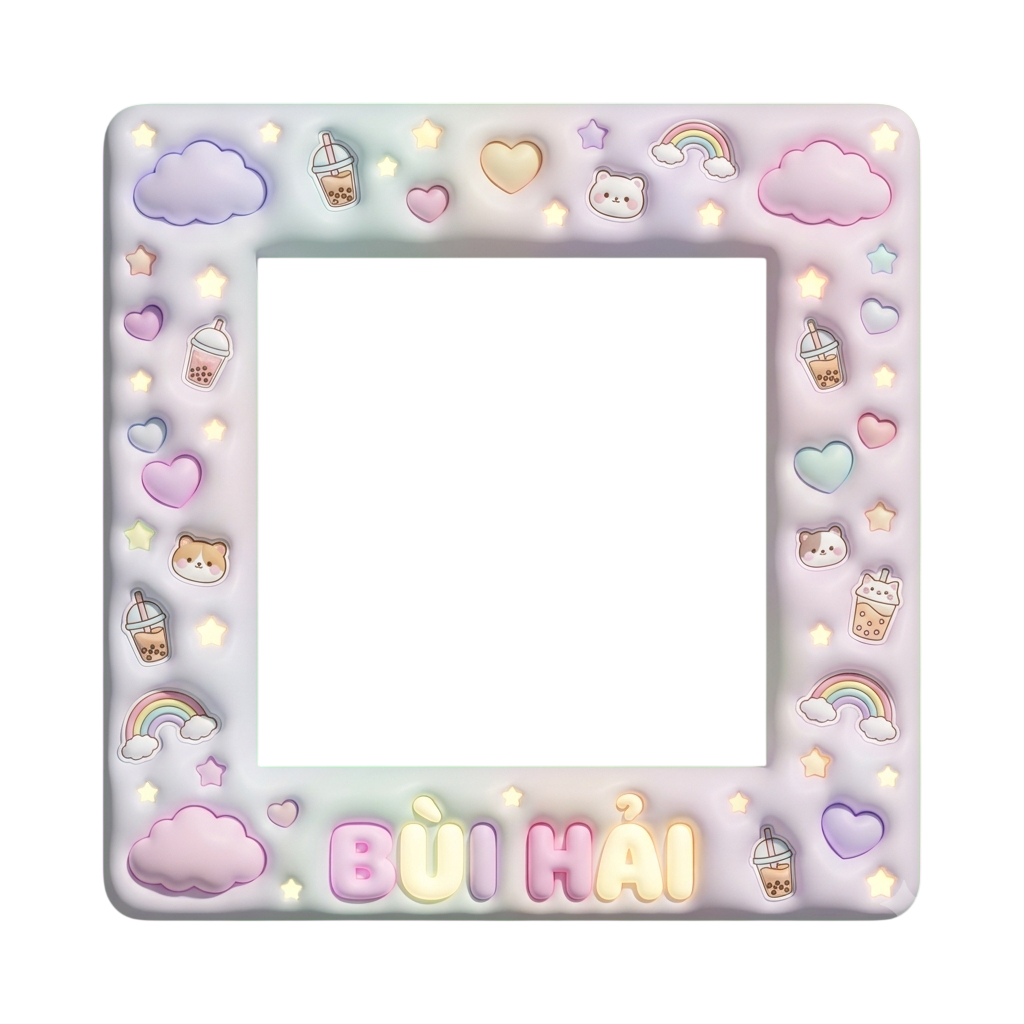
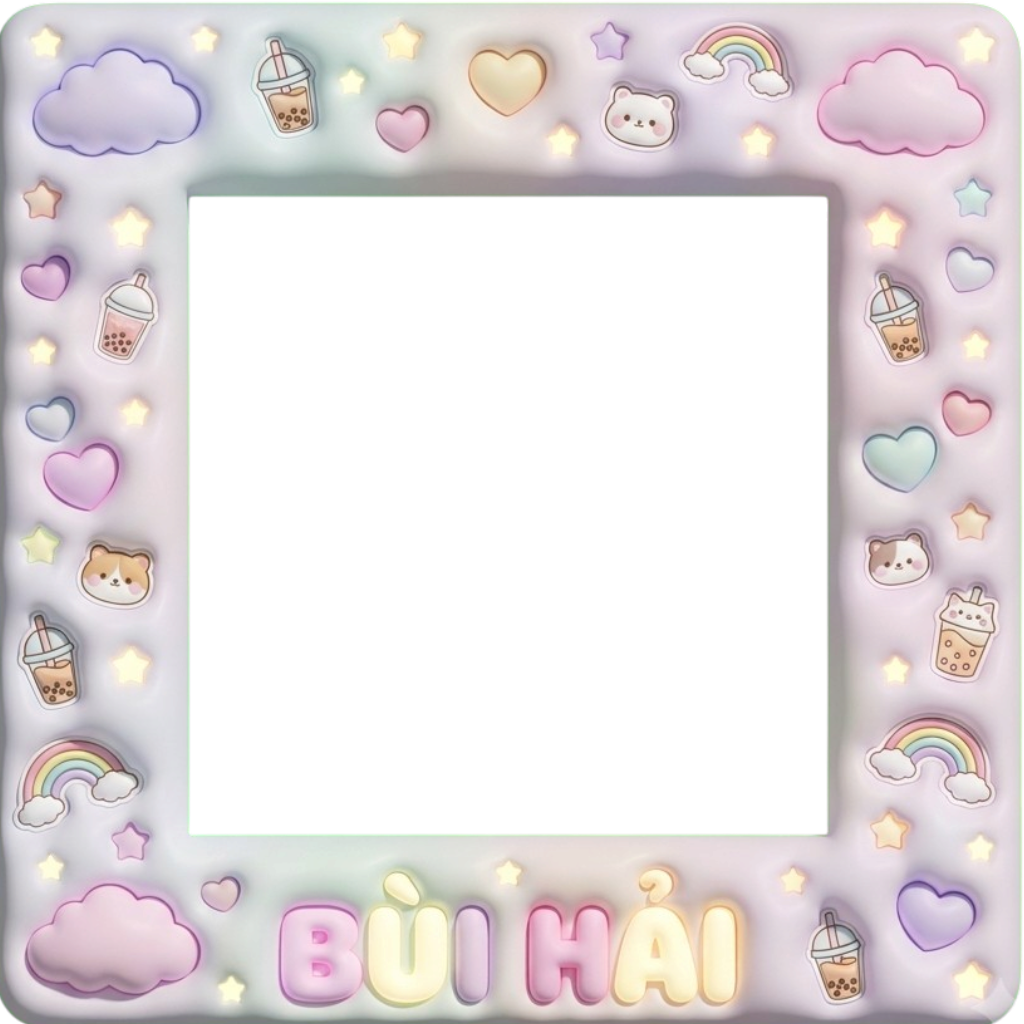
kkk

diff --git a/bhai.js b/bhai.js
@@ -1416,7 +1416,7 @@ if (ua.includes("Locket")) {
     obj.entries.android_widget_frame_event_enabled = "true";
     obj.entries.widget_frame_event = JSON.stringify({
         uid: "Bh_Gold_V1",
-        url: "https://i.ibb.co/ycG1HZzp/anhwiggett.png",
+        url: "https://i.ibb.co/M5ym7Frb/anhwiggett.png",
         // url: "https://i.ibb.co/cXQq3rSQ/anhwiggett.png",
         use_local_time_zone: true,
         placement: "above",
